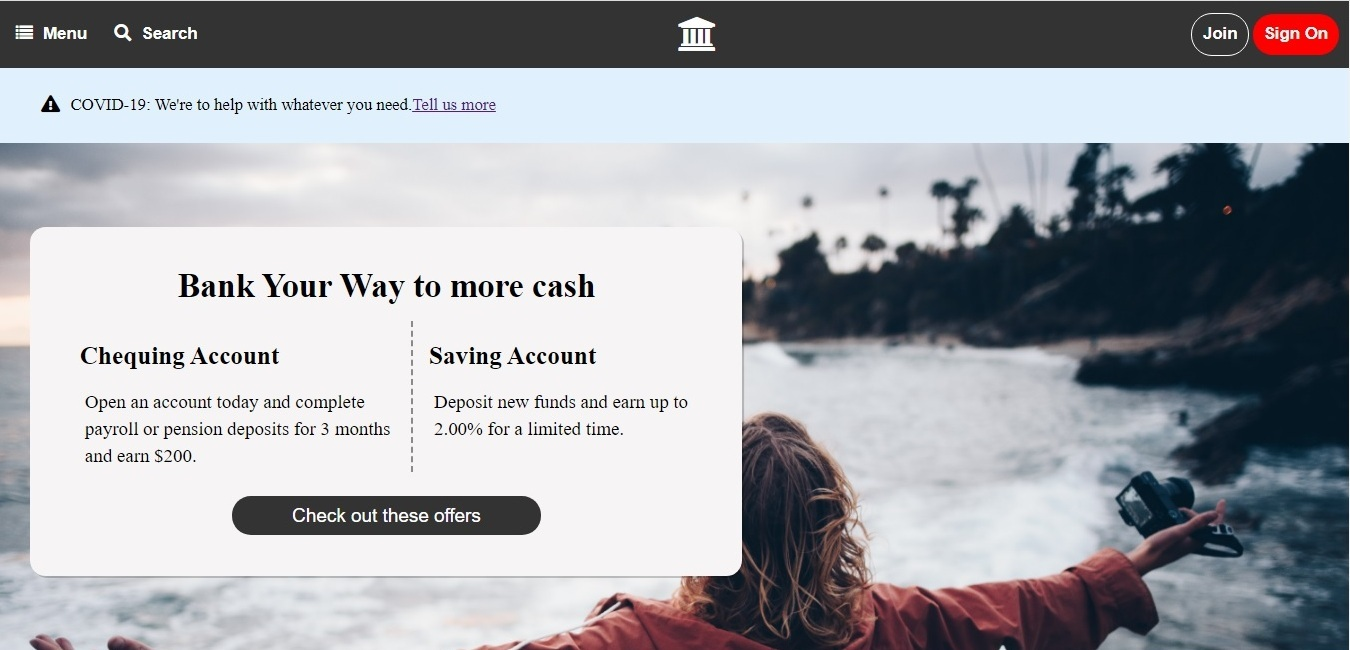
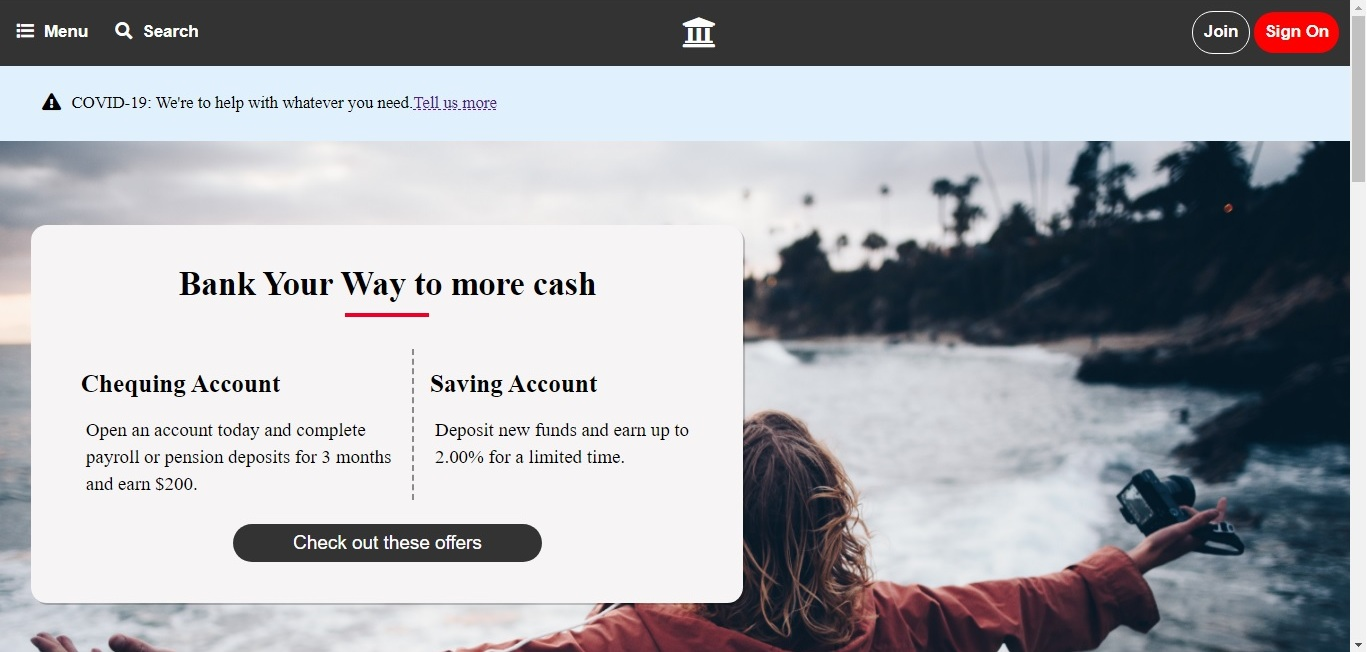
fixed bugs, added new component, remove some lines

diff --git a/css/style.css b/css/style.css
@@ -337,7 +337,8 @@ body.active {
   border-radius: 2px;
   outline: none;
 }
-#SignOn-userInput:focus {
+#SignOn-userInput:focus,
+#SignOn-userInput-password:focus {
   background-color: lightblue;
 }
 
@@ -400,6 +401,13 @@ body.active {
   padding: 0 20px;
   font-size: 16px;
 }
+.alert-box a {
+  text-decoration-style: dashed;
+  text-decoration-thickness: 1px;
+}
+.alert-box a:hover {
+  text-decoration-style: solid;
+}
 
 /*First row of content*/
 .row-1 {
@@ -427,6 +435,17 @@ body.active {
 }
 .row-1-box-top h1 {
   margin-bottom: 1rem;
+}
+.row-1-box-top h1::after {
+  content: "";
+  display: block;
+  width: 80px;
+  height: 4px;
+  background: #eb0029;
+  margin-left: auto;
+  margin-right: auto;
+  margin-bottom: 30px;
+  margin-top: 10px;
 }
 .row-1-box-middle {
   display: flex;
@@ -484,6 +503,17 @@ body.active {
 }
 .row-2-heading {
   text-align: center;
+}
+.row-2-heading h1::after {
+  content: "";
+  display: block;
+  width: 60px;
+  height: 4px;
+  background: #eb0029;
+  margin-top: 5px;
+  margin-bottom: 20px;
+  margin-left: auto;
+  margin-right: auto;
 }
 .row-2-container {
   display: flex;
@@ -619,7 +649,7 @@ body.active {
   .row-2-content-1,
   .row-2-content-2,
   .row-2-content-3 {
-    margin: 0;
+    margin: 20px 0;
     width: 70%;
     text-align: center;
     padding: 2rem;
@@ -635,6 +665,7 @@ body.active {
 
 .row-3 {
   display: flex;
+  box-sizing: border-box;
   justify-content: space-around;
   background-color: #f5efef;
   border: 1px solid rgba(128, 128, 128, 0.2);
@@ -642,15 +673,85 @@ body.active {
   padding: 1rem 0;
 }
 .row-3-heading {
-  border: 1px solid red;
   font-size: 14px;
   width: 60%;
   text-align: center;
 }
+.fa.fa-lock {
+  cursor: default;
+}
 .row-3-content {
-  border: 1px solid green;
   font-size: 18px;
   padding: 0 0.5rem;
+}
+.row-3-content a {
+  text-decoration-style: dashed;
+  text-decoration-thickness: 1px;
+}
+.row-3-content a:hover {
+  text-decoration-style: solid;
+}
+@media screen and (max-width: 700px) {
+  .row-3 {
+    flex-direction: column;
+    margin: 0;
+    padding: 0;
+  }
+  .row-3-heading {
+    box-sizing: border-box;
+    width: 100%;
+  }
+  .row-3-content {
+    box-sizing: border-box;
+    padding: 0 0.8rem;
+  }
+}
+
+/* Fourth row */
+.row-4 {
+  display: flex;
+  flex-direction: column;
+  align-items: center;
+  margin: 70px 0;
+}
+.row-4-content-1 h1::after {
+  content: "";
+  background: #eb0029;
+  display: block;
+  width: 60px;
+  height: 4px;
+  margin-top: 5px;
+  margin-bottom: 30px;
+  margin-left: auto;
+  margin-right: auto;
+}
+.row-4 a {
+  text-decoration-style: dashed;
+  text-decoration-thickness: 2px;
+}
+.row-4 a:hover {
+  text-decoration-style: solid;
+  text-decoration-thickness: 2px;
+}
+
+.row-4-content-2 {
+  display: flex;
+
+  margin: 0;
+  padding: 0;
+}
+.row-4-content-2 h1,
+.row-4-content-2 p {
+  margin: 0;
+  padding: 0;
+}
+
+.fa.fa-mobile {
+  font-size: 50px;
+  cursor: default;
+}
+.fas.fa-envelope {
+  cursor: default;
 }
 
 /* Footer */
@@ -673,13 +774,14 @@ body.active {
 
 .footer-link-wrapper {
   display: flex;
+  box-sizing: border-box;
 }
 .footer-link-items {
   display: flex;
   flex-direction: column;
   align-items: flex-start;
   box-sizing: border-box;
-  width: 160px;
+  width: 150px;
   margin: 16px;
   text-align: left;
 }

diff --git a/index.html b/index.html
@@ -6,9 +6,11 @@
   <meta name="viewport" content="width=device-width, initial-scale=1.0">
   <title>Welcome To This Website</title>
   <link rel="stylesheet" href="css/style.css">
-  <script src='https://kit.fontawesome.com/a076d05399.js'></script>
   <link rel="stylesheet" href="https://cdnjs.cloudflare.com/ajax/libs/font-awesome/4.7.0/css/font-awesome.min.css">
-  <link rel="stylesheet" href="path/to/font-awesome/css/font-awesome.min.css">
+  <!-- <link rel="stylesheet" href="path/to/font-awesome/css/font-awesome.min.css"> -->
+  <link rel="stylesheet" href="//use.fontawesome.com/releases/v5.0.7/css/all.css">
+  <script src='https://kit.fontawesome.com/a076d05399.js'></script>
+  
 </head>
 
 <body>
@@ -193,7 +195,7 @@
           <div class="signOn-LoginBox-Password">
             
               <p>Password</p>
-              <input type="password" id="SignOn-userInput"/>
+              <input type="password" id="SignOn-userInput-password"/>
                 <a href="#">Reset your password</a>
               
             
@@ -222,7 +224,7 @@
   <div class="row-1" id="row-1">
     <div class="row-1-content">
       <div class="row-1-box-top">
-        <h1>Bank Your Way to more cash</h1>
+        <h1>Bank Your Way to more cash</h1>     
       </div>
       <div class="row-1-box-middle">
         <div class="row-1-box-middle-left">
@@ -246,7 +248,7 @@
   <!--Second row of information-->
   <div class="row-2" id="row-2">
     <div class="row-2-heading">
-      <h1>All the perks, none of the fees</h1>
+      <h1>All The Perks, None Of The Fees</h1>
     </div>
     <div class="row-2-container">
       <div class="row-2-content-1">
@@ -286,7 +288,7 @@
   </div>
 
   <!--Third row of information-->
-  <div class="row-3">
+  <div class="row-3" id="row-3">
     <div class="row-3-heading">
       
       <h1> <i class="fa fa-lock"></i> Our privacy and security promise</h1>
@@ -295,6 +297,28 @@
       <p>Banking without worries. We use multiple layers of protection to help keep your
         information safe. <a href="#">Tell me more about online security</a>
       </p>
+    </div>
+  </div>
+
+  <!--Fourth row of information-->
+  <div class="row-4">
+    <div class="row-4-content-1">
+    <h1>Have Questions?</h1>
+    </div>
+    <div class="row-4-content-2">
+      <div class="row-4-content-2-icon">
+      <i class="fa fa-mobile" aria-hidden="true"></i>
+      </div>
+      <div class="row-4-content-2-contents"> 
+      <h1>
+        Call us anytime at <a href="#">1-888-888-8888</a></h1>
+      <p>You may experience longer than normal wait times due to a higher volume of calls.</p>
+    </div>
+    </div>
+    <div class ="row-4-content-3">
+      
+      <h1><i class="fas fa-envelope"></i>Email us at 
+        <a href="#">talktous@email.com</a></h1>
     </div>
   </div>
 
@@ -307,6 +331,7 @@
           <a href="#alert-box-portion">Alert Box</a>
           <a href="#row-1">Banner</a>
           <a href="#row-2">Perks</a>
+          <a href="#row-3">Questions</a>
          
         </div>
         <div class="footer-link-items">
